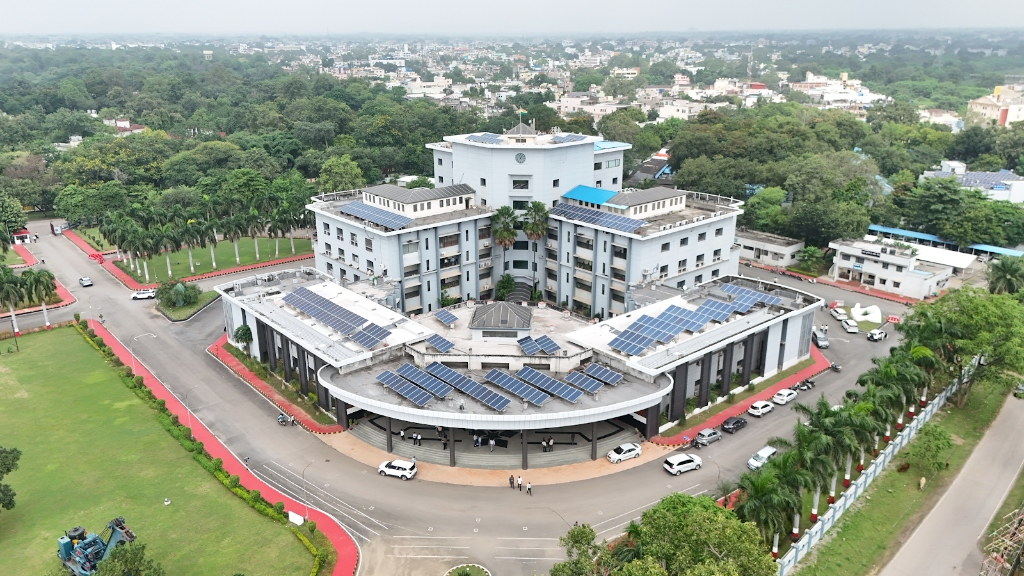
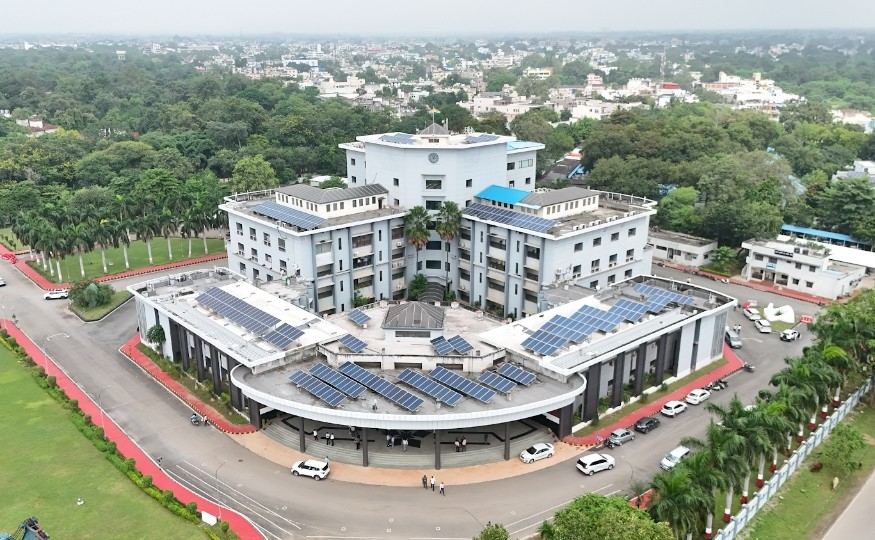
update ui login page

diff --git a/src/App.tsx b/src/App.tsx
@@ -9906,7 +9906,9 @@ function AuthView({ showToast }: { showToast: (msg: string) => void }) {
           box-sizing: border-box;
         }
         .auth-circle-frame {
-          position: relative;
+          position: absolute;
+          left: 0;
+          top: 0;
           width: min(700px, 70vw, 100vh);
           height: min(700px, 70vw, 100vh);
           border-radius: 50%;
@@ -9915,8 +9917,9 @@ function AuthView({ showToast }: { showToast: (msg: string) => void }) {
           background: #ffffff;
           overflow: visible;
           box-shadow: 0 20px 50px rgba(0, 76, 192, 0.12);
-          transform: translate(-27%, -22%);
+          transform: translate(-13%, -22%);
           box-sizing: border-box;
+          z-index: 1;
         }
         .auth-hq-img {
           width: 100%;
@@ -10189,6 +10192,9 @@ function AuthView({ showToast }: { showToast: (msg: string) => void }) {
           .auth-left {
             display: none;
           }
+          .auth-circle-frame {
+            display: none;
+          }
           .auth-wrapper {
             padding: 20px;
             justify-content: center;
@@ -10196,10 +10202,6 @@ function AuthView({ showToast }: { showToast: (msg: string) => void }) {
           .auth-right {
             flex: 1;
             max-width: 420px;
-          }
-          .auth-bg-sketch {
-            background-size: 95% auto;
-            opacity: 0.06;
           }
         }
         @media (max-height: 550px) {
@@ -10217,12 +10219,14 @@ function AuthView({ showToast }: { showToast: (msg: string) => void }) {
 
       <div className="auth-bg-sketch" style={{ backgroundImage: `url(${bgSketch})` }}></div>
 
+      <div className="auth-circle-frame">
+        <img src={secrHq} alt="SECR HQ" className="auth-hq-img" />
+        <img src={irLogo} alt="Indian Railways Logo" className="auth-ir-logo" />
+      </div>
+
       <div className="auth-wrapper">
         <div className="auth-left">
-          <div className="auth-circle-frame">
-            <img src={secrHq} alt="SECR HQ" className="auth-hq-img" />
-            <img src={irLogo} alt="Indian Railways Logo" className="auth-ir-logo" />
-          </div>
+          {/* Spacer block to balance layout on desktop */}
         </div>
 
         <div className="auth-right">
@@ -10233,7 +10237,7 @@ function AuthView({ showToast }: { showToast: (msg: string) => void }) {
               <>
                 <div className="auth-card-header">
                   <h3 className="auth-card-title">Login</h3>
-                  <p className="auth-card-subtitle">Access your smart procurement portal</p>
+                  <p className="auth-card-subtitle">Secure access to Railway Daily Position Portal</p>
                 </div>
 
                 {errorMsg && <div className="auth-error">{errorMsg}</div>}